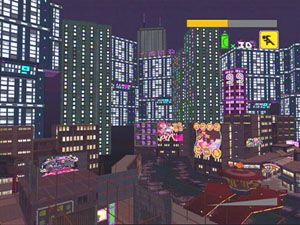
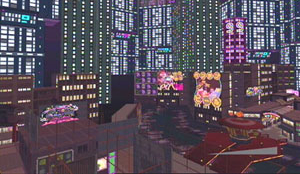
added link card and building with windows

diff --git a/public/index.html b/public/index.html
@@ -9,16 +9,91 @@
     <link href="style.css" rel="stylesheet" type="text/css" media="all">
   </head>
   <body>
+
+    <!-- title -->
     <div style="display: flex;">
       <img class="title-image" src="./resources/images/Smeargle billboard.png">
-      <div class="speech-bubble-tail" style="margin-top: 50px;"></div>
+      <div class="speech-bubble-tail"></div>
       <div class="speech-bubble">
         <div style="display: flex; align-items: flex-end; justify-content: space-between;">
           <div style="font-family: 'Comic Sans MS';">im</div>
-          <img style="width: 40%; height: auto; " src="./resources/images/constructionpikachu.gif" />
+          <img style="width: 40%; height: auto; margin-right: 15px;" src="./resources/images/constructionpikachu.gif" />
         </div>
         <div style="font-family: 'Comic Sans MS';">invisiblewalrus</div>
       </div>
     </div>
+
+    <!-- links -->
+    <!-- TODO? make the building look 3d, with the billboard ontop of it -->
+    <div style="display: flex;">
+      <div class="building">
+        <div class="building-window">
+          <!-- cohost svg -->
+          <svg viewBox="0 0 416 300" fill="none" xmlns="http://www.w3.org/2000/svg" class="block h-8 lg:hidden" role="img" aria-label="cohost">
+            <path fill-rule="evenodd" clip-rule="evenodd" d="M335.13 249.687c-26.067 15.965-56.123 28.509-90.166 37.631-37.809 10.131-73.445 14.192-106.908 12.183-33.463-2.008-61.9733-10.738-85.5305-26.188-23.5573-15.45-39.4399-38.491-47.64762-69.123-8.2548-30.807-6.03245-58.746 6.66702-83.818 12.6995-25.0714 33.0606-46.755 61.0832-65.0511 28.0229-18.296 60.9379-32.5095 98.7469-42.6402C209.008 2.59678 244.501-1.47294 277.854.471489 300.262 1.778 320.475 6.10779 338.49 13.4609c8.799 3.591 17.073 7.9031 24.824 12.9363 23.621 15.3393 39.536 38.325 47.744 68.957 8.208 30.6318 5.93 58.5388-6.834 83.7218-1.783 3.518-3.714 6.97-5.793 10.358-1.468-6.614-4.418-12.382-8.849-17.302-2.175-2.415-4.593-4.634-7.255-6.655-5.451-4.138-11.924-7.448-19.418-9.932-11.153-3.697-23.582-5.545-37.285-5.545-13.766 0-26.242 1.832-37.428 5.497-11.185 3.665-20.076 9.178-26.673 16.539-6.597 7.362-9.895 16.651-9.895 27.868 0 11.154 3.298 20.427 9.895 27.821 6.597 7.393 15.488 12.954 26.673 16.682 11.186 3.729 23.662 5.593 37.428 5.593 3.24 0 6.408-.104 9.506-.313Zm-119.254-19.859c-2.613 2.804-7.218 5.784-13.814 8.939-6.597 3.155-14.548 5.816-23.853 7.982-9.305 2.167-19.311 3.251-30.019 3.251-9.369 0-18.547-.908-27.533-2.725-8.987-1.816-17.113-4.7-24.379-8.652-7.2658-3.951-13.0497-9.114-17.3519-15.487-4.302-6.374-6.4531-14.118-6.4531-23.232 0-9.241 2.1511-17.049 6.4531-23.422 4.3022-6.374 10.0861-11.504 17.3519-15.392 7.266-3.888 15.392-6.708 24.379-8.461 8.986-1.753 18.164-2.629 27.533-2.629 10.771 0 20.714.956 29.828 2.868s16.937 4.414 23.47 7.505c6.533 3.091 11.265 6.389 14.197 9.895l-24.474 16.061c-3.569-3.888-8.987-6.995-16.252-9.321-7.266-2.327-16.093-3.49-26.482-3.49-5.099 0-10.246.399-15.44 1.195-5.194.797-9.958 2.151-14.292 4.063s-7.824 4.589-10.469 8.031c-2.645 3.442-3.967 7.807-3.967 13.097 0 5.227 1.322 9.545 3.967 12.954 2.645 3.41 6.135 6.119 10.469 8.127 4.334 2.007 9.098 3.425 14.292 4.254 5.194.829 10.341 1.243 15.44 1.243 10.197 0 19.041-1.275 26.529-3.824 7.489-2.55 12.763-5.482 15.823-8.796l25.047 15.966Zm109.748-3.729c13.321 0 23.646-2.39 30.976-7.17 7.329-4.78 10.994-11.121 10.994-19.025 0-8.094-3.681-14.451-11.042-19.072-7.362-4.621-17.671-6.931-30.928-6.931-13.32 0-23.693 2.31-31.118 6.931-7.425 4.621-11.138 10.978-11.138 19.072 0 8.031 3.713 14.404 11.138 19.121 7.425 4.716 17.798 7.074 31.118 7.074Z" fill="currentColor"></path>
+          </svg>
+        </div>
+        <div class="building-window"> 
+          <!-- twitter svg -->
+          <svg xmlns="http://www.w3.org/2000/svg" viewBox="0 0 24 24">
+            <path d="M24 4.557c-.883.392-1.832.656-2.828.775 1.017-.609 1.798-1.574 2.165-2.724-.951.564-2.005.974-3.127 1.195-.897-.957-2.178-1.555-3.594-1.555-3.179 0-5.515 2.966-4.797 6.045-4.091-.205-7.719-2.165-10.148-5.144-1.29 2.213-.669 5.108 1.523 6.574-.806-.026-1.566-.247-2.229-.616-.054 2.281 1.581 4.415 3.949 4.89-.693.188-1.452.232-2.224.084.626 1.956 2.444 3.379 4.6 3.419-2.07 1.623-4.678 2.348-7.29 2.04 2.179 1.397 4.768 2.212 7.548 2.212 9.142 0 14.307-7.721 13.995-14.646.962-.695 1.797-1.562 2.457-2.549z"/>
+          </svg>
+        </div>
+        <div class="building-window">
+          <!-- letterboxd svg -->
+          <svg viewBox="0 0 500 500" version="1.1" xmlns="http://www.w3.org/2000/svg" xmlns:xlink="http://www.w3.org/1999/xlink">
+            <title>letterboxd-decal-dots-pos-mono</title>
+            <defs>
+              <rect id="path-1" x="0" y="0" width="129.847328" height="141.443299"/>
+              <rect id="path-3" x="0" y="0" width="129.847328" height="141.443299"/>
+            </defs>
+            <g id="letterboxd-decal-dots-pos-mono" stroke="none" stroke-width="1" fill="none" fill-rule="evenodd">
+              <circle id="Circle" fill="#202830" cx="250" cy="250" r="250"/>
+              <g id="Dots" transform="translate(61.000000, 180.000000)">
+                <ellipse id="Green" fill="#ffd900" cx="189" cy="70" rx="70.0786517" ry="70"/>
+                <g id="Blue" transform="translate(248.152672, 0.000000)">
+                  <mask id="mask-2" fill="white">
+                    <use xlink:href="#path-1"/>
+                  </mask>
+                  <g id="Mask"/>
+                  <ellipse fill="#ffd900" mask="url(#mask-2)" cx="59.7686766" cy="70" rx="70.0786517" ry="70"/>
+                </g>
+                <g id="Orange">
+                  <mask id="mask-4" fill="white">
+                    <use xlink:href="#path-3"/>
+                  </mask>
+                  <g id="Mask"/>
+                  <ellipse fill="#ffd900" mask="url(#mask-4)" cx="70.0786517" cy="70" rx="70.0786517" ry="70"/>
+                </g>
+                <path d="M129.539326,107.063108 C122.810493,96.3149291 118.921348,83.611134 118.921348,70 C118.921348,56.388866 122.810493,43.6850709 129.539326,32.9368922 C136.268159,43.6850709 140.157303,56.388866 140.157303,70 C140.157303,83.611134 136.268159,96.3149291 129.539326,107.063108 L129.539326,107.063108 Z" id="Overlap" fill="#202830"/>
+                <path d="M248.460674,32.9368922 C255.189507,43.6850709 259.078652,56.388866 259.078652,70 C259.078652,83.611134 255.189507,96.3149291 248.460674,107.063108 C241.731841,96.3149291 237.842697,83.611134 237.842697,70 C237.842697,56.388866 241.731841,43.6850709 248.460674,32.9368922 L248.460674,32.9368922 Z" id="Overlap" fill="#202830"/>
+              </g>
+            </g>
+        </svg>
+
+        </div>
+      </div>
+      <div>
+        <div class="link-card">
+          <a href="https://cohost.org/invisiblewalrus">
+            <h2>cohost</h2>
+            find me here blogging about my latest media hyperfixations (or maybe something else entirely, only time will tell)
+          </a>
+        </div>
+        <div class="link-card">
+          <a href="https://twitter.com/invisiblewaIrus">
+            <h2>twitter:</h2>
+            mostly just retweet good art at this point, sorta like my public pinterest board
+          </a>
+        </div>
+        <div class="link-card">
+          <a href="https://letterboxd.com/invisiblewalrus/">
+            <h2>letterboxd:</h2>
+            i log every movie i watch here, sometimes even write reviews. imagine that!
+          </a>
+        </div>
+      </div>
+    </div>
+
   </body>
 </html>

diff --git a/public/style.css b/public/style.css
@@ -26,11 +26,64 @@ body {
   height: 0; 
   border-top: 10px solid transparent;
   border-bottom: 10px solid transparent; 
-  border-right:30px solid white; 
+  border-right:30px solid white;
+  margin-top: 73px;
 }
 
 .title-image {
-  width: 25%;
+  width: 20%;
+}
+
+h2 {
+  margin-top: 0;
+}
+
+/* styling for the building */
+/*  */
+.building {
+  flex: 0 0 100px;
+  background-image: url(./resources/images/Pilotage-Stretcher-Architextures.jpg);
+  background-repeat: repeat;
+  background-size: 100px;
+  display: flex;
+  flex-wrap: wrap;
+  align-content: space-around;
+  justify-content: center;
+  padding: 20px;
+}
+
+.building-window {
+  background-color: rgb(255, 217, 0);
+  display: flex;
+  border-bottom: 10px solid lightgray;
+  width: 60px;
+  height: 65px;
+  padding: 5px;
+}
+
+
+/* styling for the link cards */
+
+.link-card {
+  background-color: rgb(27, 0, 49);
+  padding: 25px 15px; 
+  border-style: ridge;
+  border-color: rgb(80, 41, 112);
+  margin-bottom: 5px;
+  margin-left: 5px;
+}
+
+a:link {
+  color: plum;
+}
+
+a:visited {
+  color: rgb(255, 153, 116)
+}
+
+a:active {
+  color: rgb(255, 77, 13)
+
 }
 
 /* styles that change on mobile */
@@ -39,7 +92,19 @@ body {
   .speech-bubble {
     font-size: x-large;
   }
+  .speech-bubble-tail {
+    margin-top: 55px;
+  }
   .title-image {
     width: 33%;
+  }
+
+  .building {
+    flex-basis: 50px;
+  }
+
+  .building-window {
+    width: 45px;
+    height: 50px;
   }
 }
